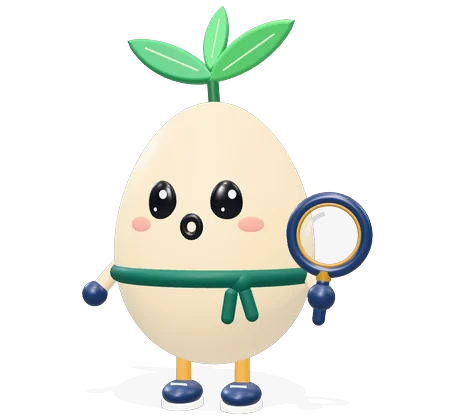
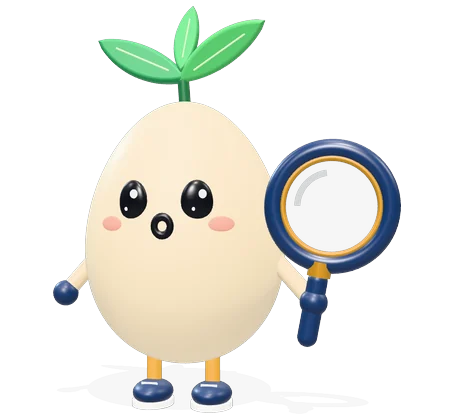
AI bomi: remove green band, bigger magnifier

Changed region(s): [[0.0923, 0.0, 0.8923, 0.9905]]

diff --git a/tools/bomi/egg3d.js b/tools/bomi/egg3d.js
@@ -15,9 +15,9 @@ export function buildEgg(THREE, opt = {}) {
 
   /* 초록 목도리(김보미.com 초록) */
   const scarf = new THREE.Mesh(new THREE.TorusGeometry(.95, .1, 16, 80), toy(C.scarf, { roughness: .7, clearcoat: .1 }));
-  scarf.rotation.x = Math.PI / 2; scarf.position.y = -.27; scarf.scale.set(1, 1, .9); body.add(scarf);
-  const knot = new THREE.Mesh(new THREE.SphereGeometry(.1, 20, 14), toy(C.scarf, { roughness: .7, clearcoat: .1 })); knot.scale.set(1.2,1,.8); knot.position.set(.42, -.3, .88); body.add(knot);
-  const tail = new THREE.Mesh(new THREE.CapsuleGeometry(.06, .22, 4, 10), toy(C.scarf, { roughness: .7, clearcoat: .1 })); tail.position.set(.5, -.5, .86); tail.rotation.z = .3; body.add(tail); const tail2 = tail.clone(); tail2.position.set(.33, -.52, .9); tail2.rotation.z = -.15; body.add(tail2);
+  scarf.visible = false; scarf.rotation.x = Math.PI / 2; scarf.position.y = -.27; scarf.scale.set(1, 1, .9); body.add(scarf);
+  const knot = new THREE.Mesh(new THREE.SphereGeometry(.1, 20, 14), toy(C.scarf, { roughness: .7, clearcoat: .1 })); knot.visible = false; knot.scale.set(1.2,1,.8); knot.position.set(.42, -.3, .88); body.add(knot);
+  const tail = new THREE.Mesh(new THREE.CapsuleGeometry(.06, .22, 4, 10), toy(C.scarf, { roughness: .7, clearcoat: .1 })); tail.position.set(.5, -.5, .86); tail.rotation.z = .3; tail.visible = false; body.add(tail); const tail2 = tail.clone(); tail2.position.set(.33, -.52, .9); tail2.rotation.z = -.15; tail2.visible = false; body.add(tail2);
 
   /* 얼굴 */
   const F = new THREE.Group(); F.position.set(0, .3, 0); body.add(F);
@@ -84,7 +84,7 @@ export function buildEgg(THREE, opt = {}) {
   const mh = new THREE.Group(); mh.position.set(0, -.34, 0); mag.add(mh);
   const mcol = new THREE.Mesh(new THREE.CylinderGeometry(.07, .07, .09, 24), toy(C.gold, { metalness: .5, roughness: .3 })); mcol.position.y = -.04; mh.add(mcol);
   const mgrip = new THREE.Mesh(new THREE.CapsuleGeometry(.06, .34, 6, 16), toy(C.navy, { roughness: .45 })); mgrip.position.y = -.28; mh.add(mgrip);
-  mag.userData = { lens };
+  mag.userData = { lens }; mag.scale.setScalar(1.55);
   body.add(mag);
 
   /* 다리와 운동화 */
@@ -129,8 +129,8 @@ export function buildEgg(THREE, opt = {}) {
   function setPose(n) {
     body.rotation.set(0, 0, 0); body.position.z = 0; doc.visible = false;
     aim(armL, REST_L);
-    placeMag(new THREE.Vector3(1.2, .12, .55), -.12);
-    if (n === 'look') placeMag(new THREE.Vector3(.3, .42, 1.3), .55);
+    placeMag(new THREE.Vector3(1.5, .38, .6), -.18);
+    if (n === 'look') placeMag(new THREE.Vector3(.36, .42, 1.35), .55);
     if (n === 'point') { aim(armL, new THREE.Vector3(-1.5, .45, .45)); }
     if (n === 'think') { aim(armL, new THREE.Vector3(-.42, .12, 1.02)); }
     if (n === 'hold') { doc.visible = true; doc.position.set(-.5, -.45, 1.08); doc.rotation.set(-.1, .15, .12); aim(armL, new THREE.Vector3(-.7, -.55, 1.05)); }
